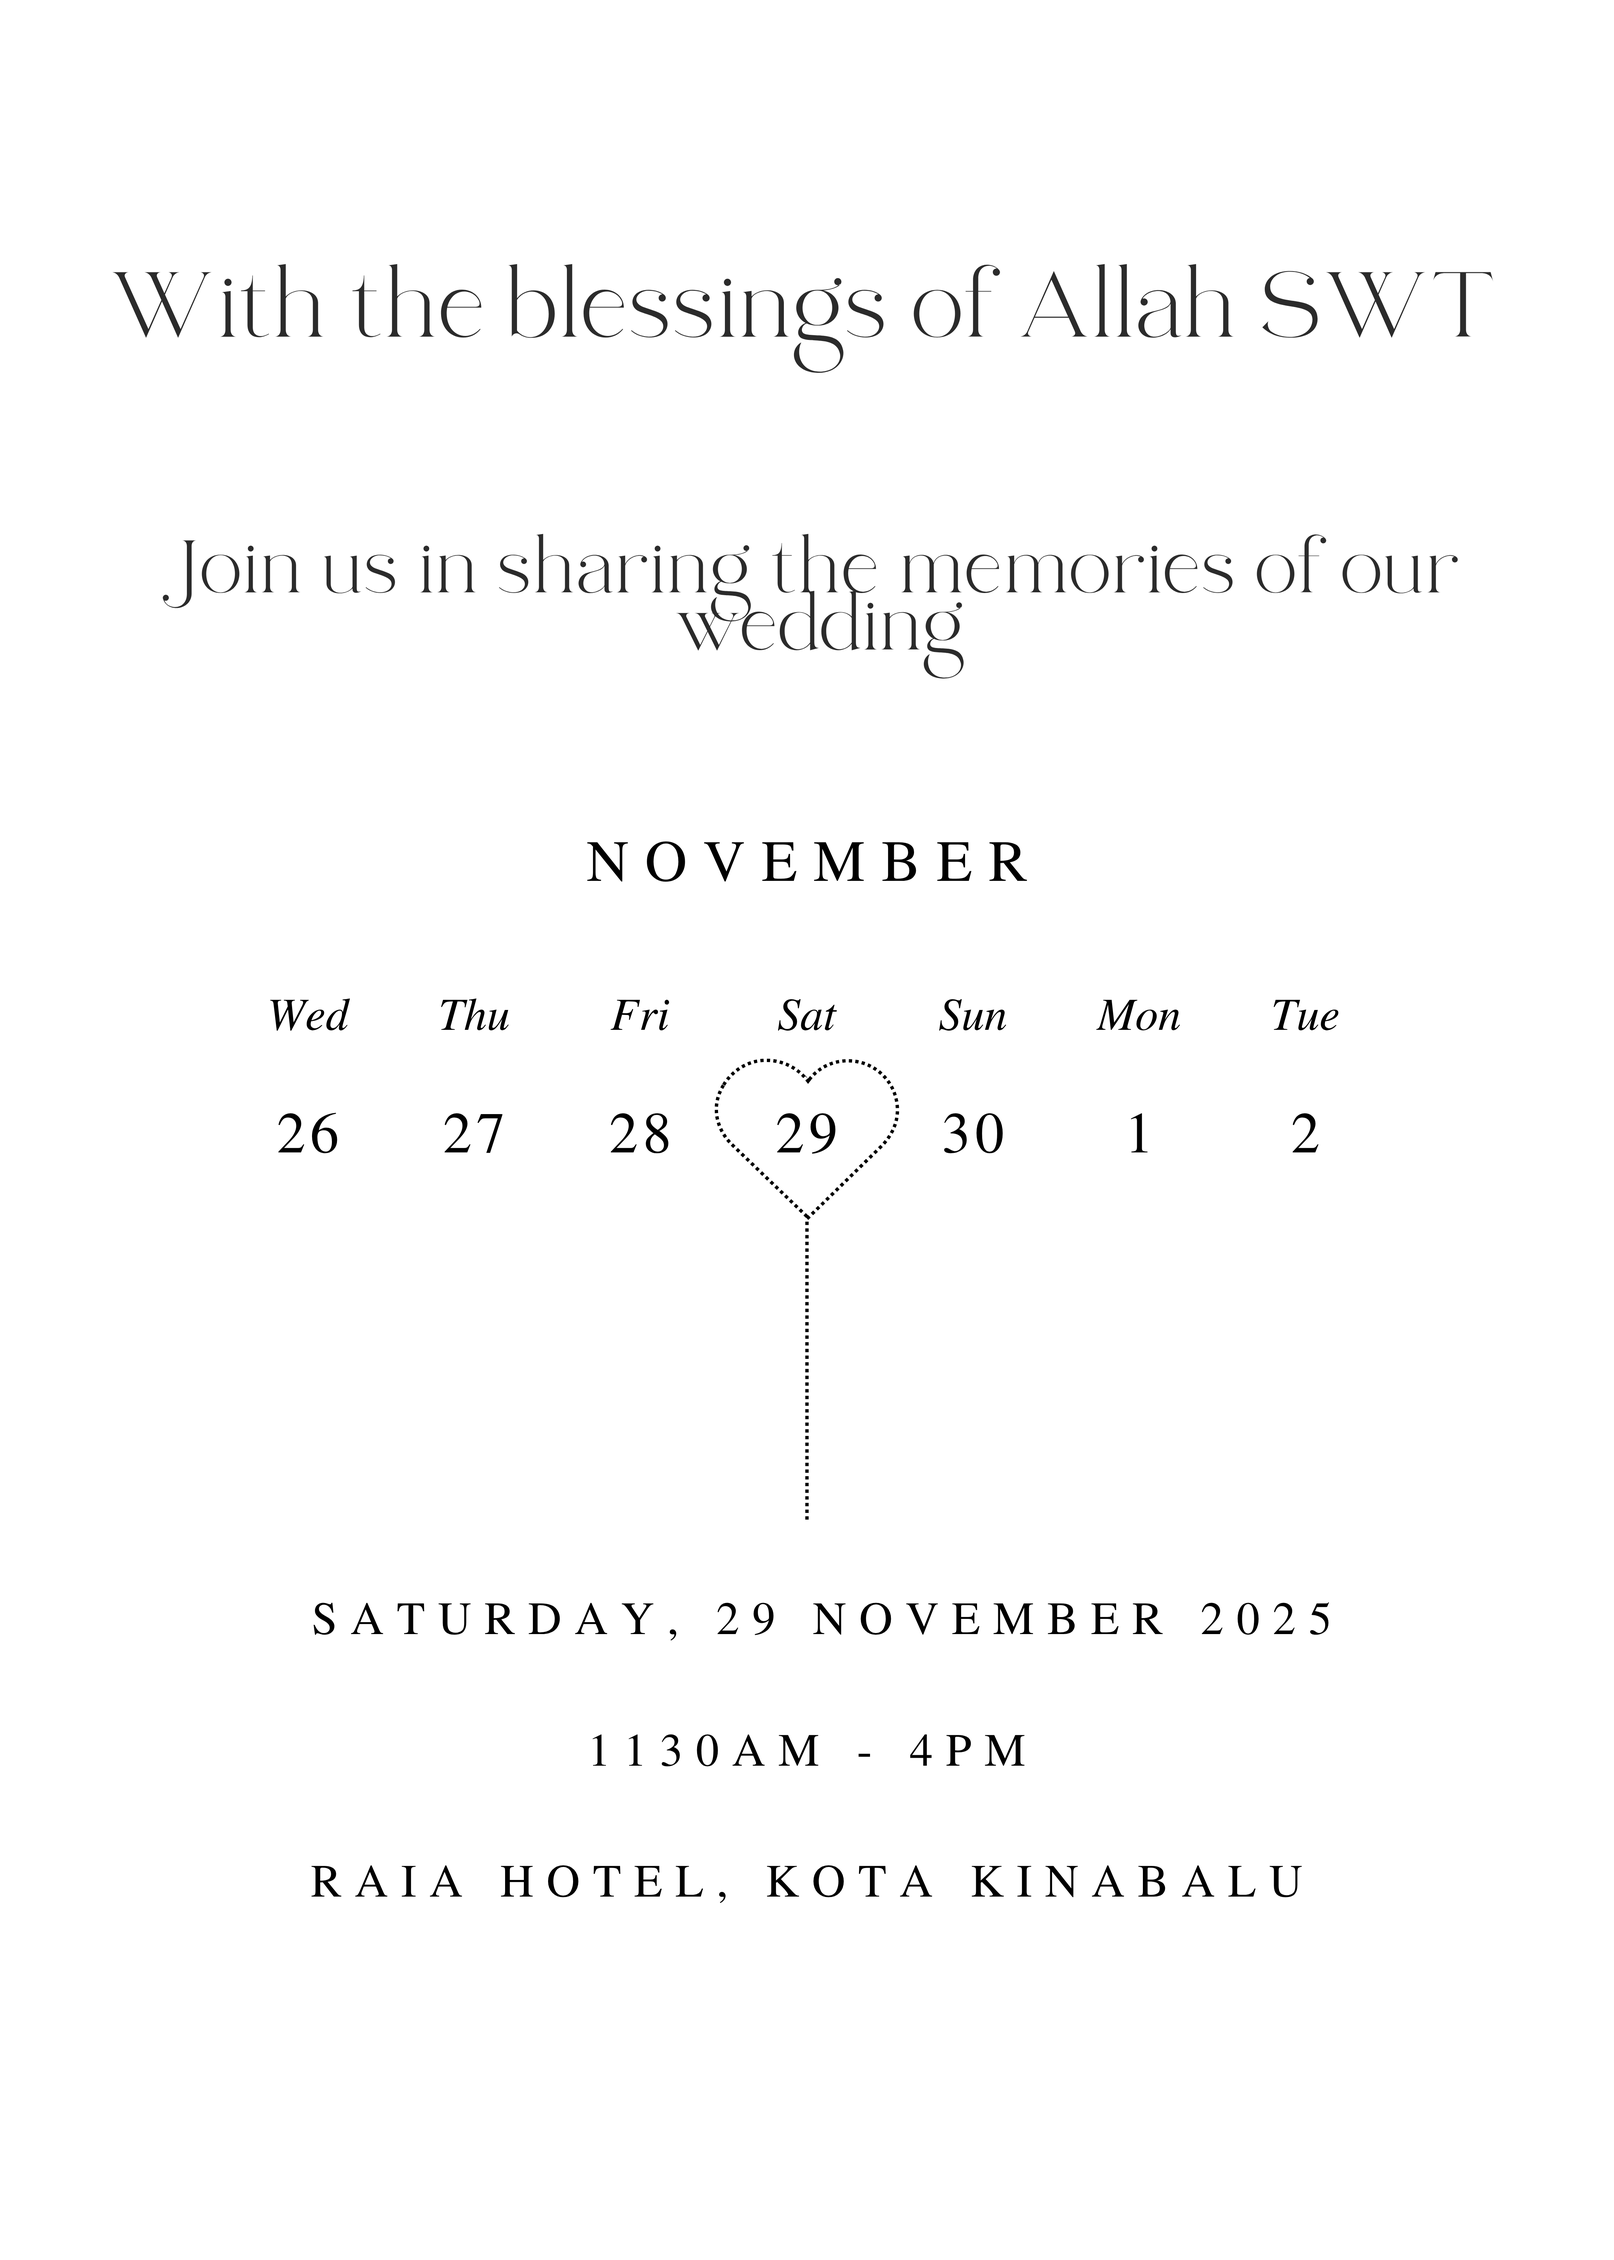
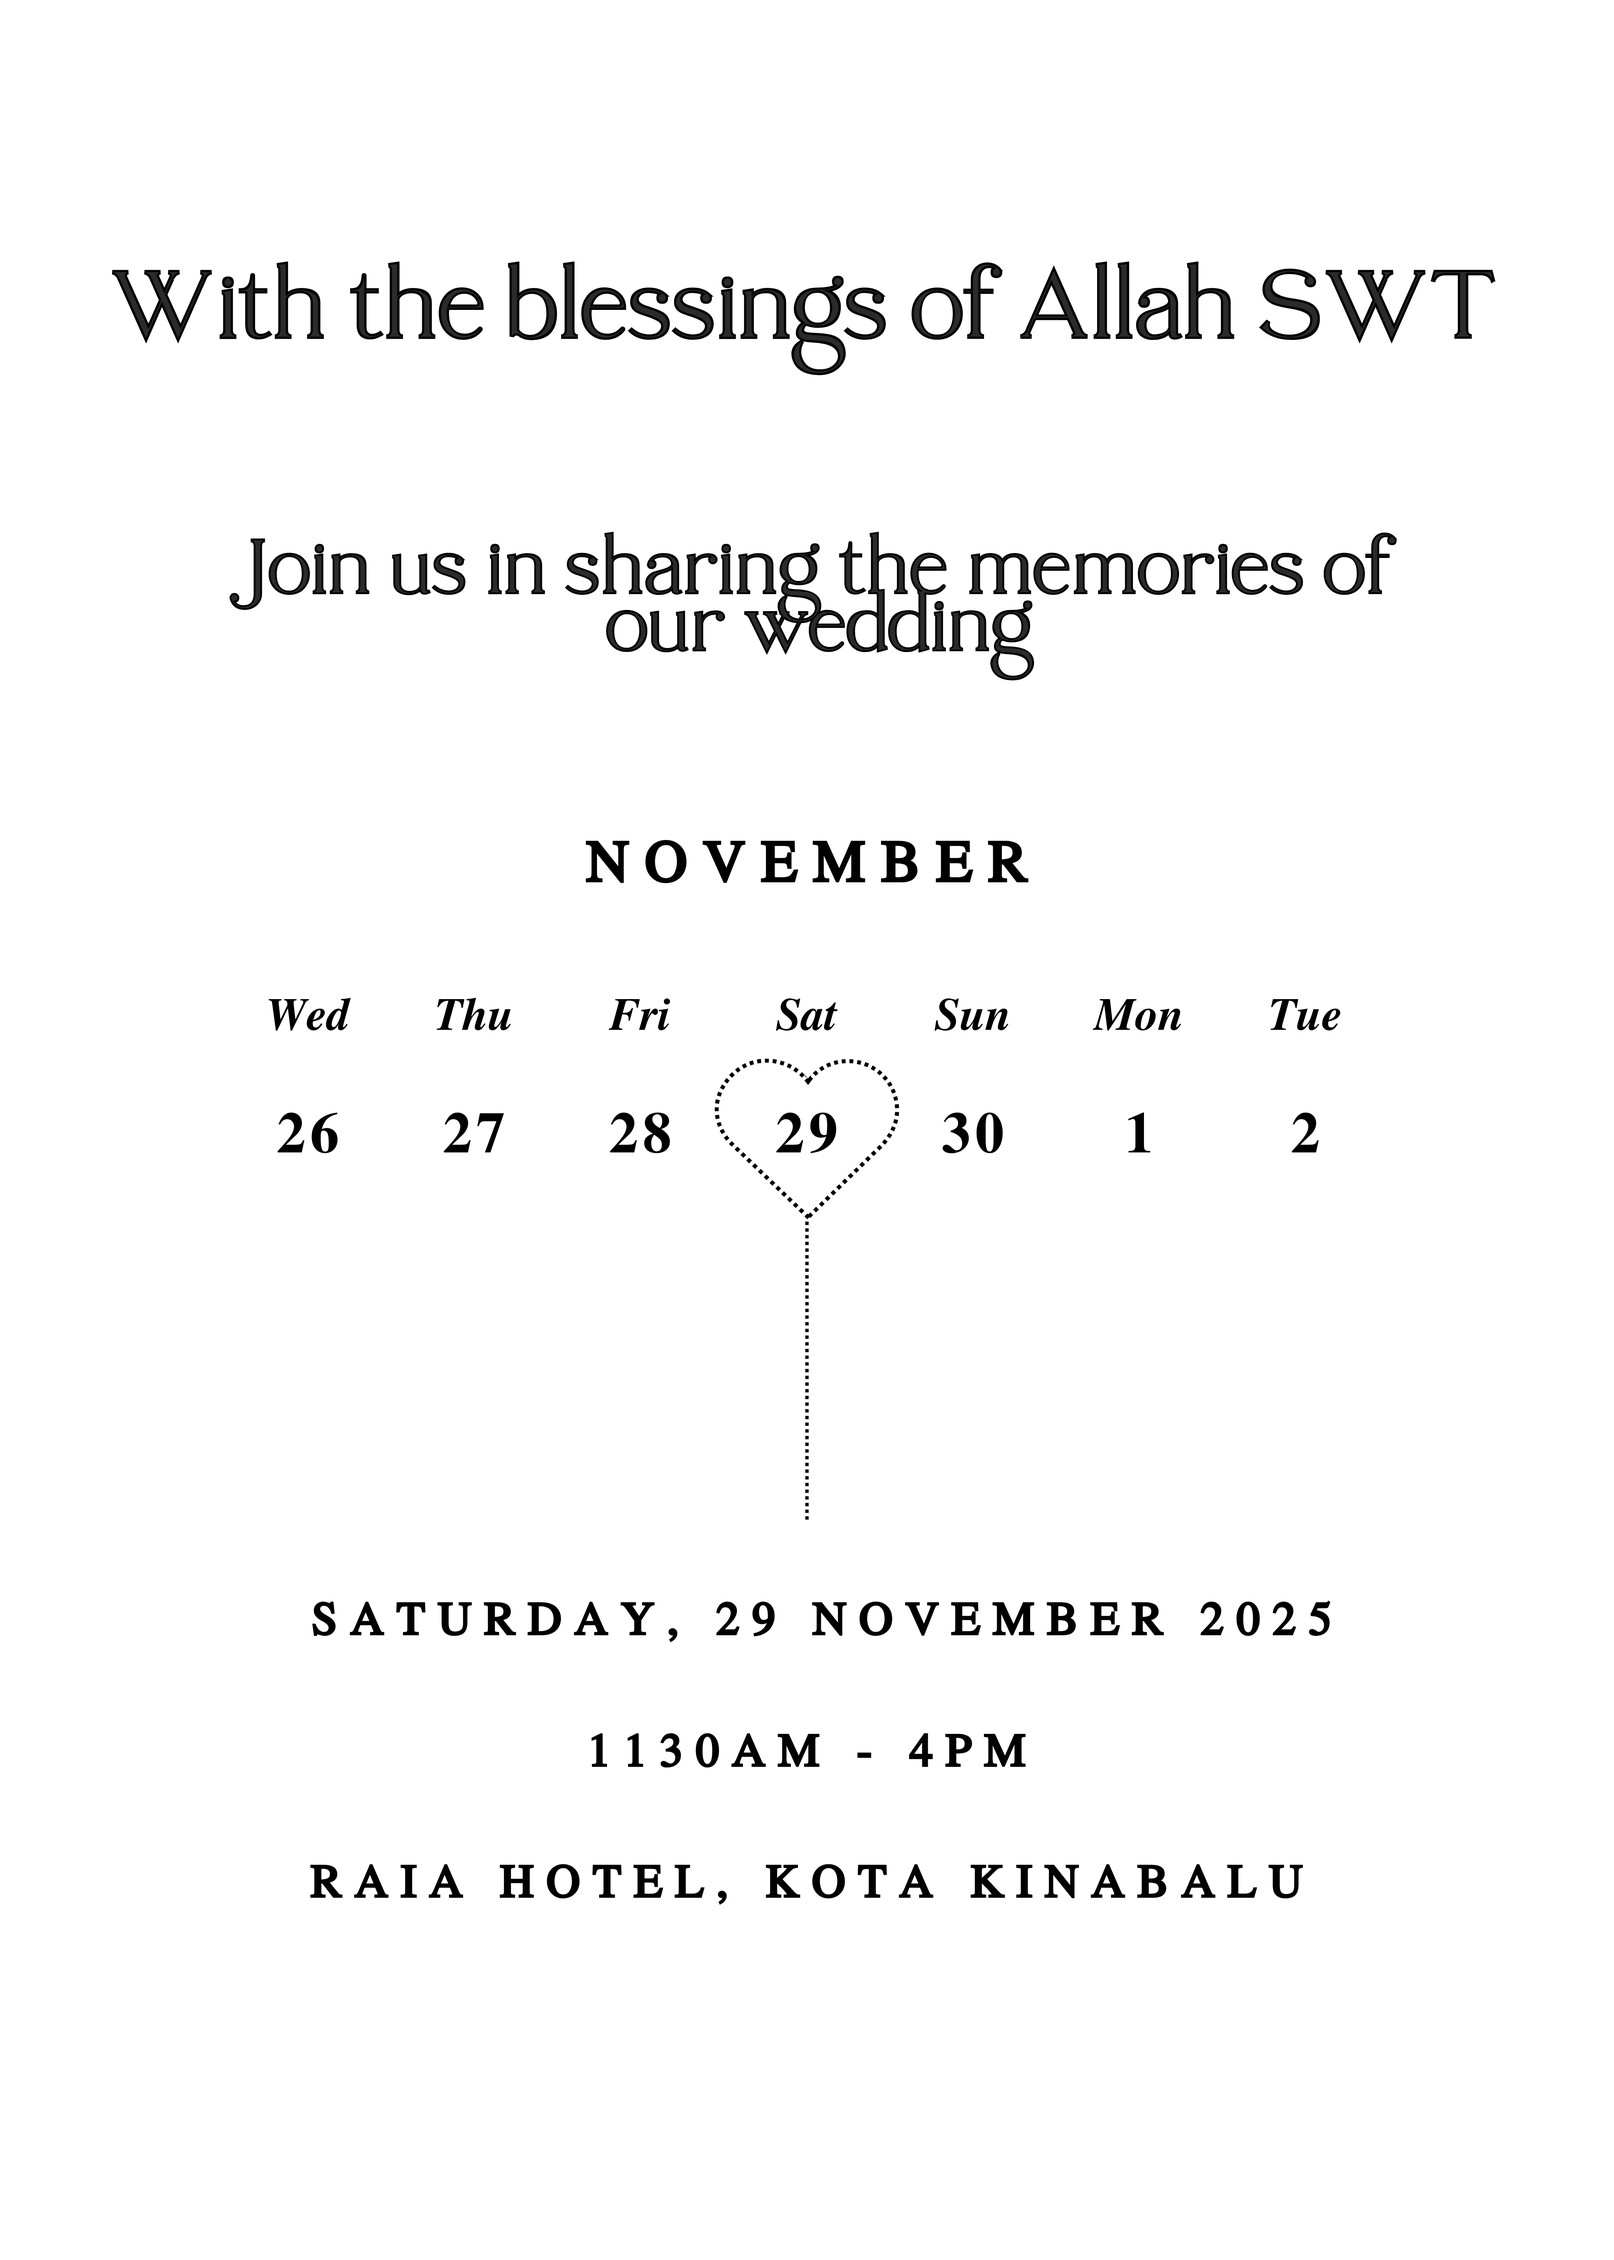
Changed sum stuff

diff --git a/index.html b/index.html
@@ -398,21 +398,18 @@
 		<div class="container">
 		  <div class="row">
 			<div class="col-md-8 col-md-offset-2 text-center fh5co-heading animate-box">
-				<h2 style="font-size: 50px;">With the blessings of Allah</h2>
-			  <p style="color: black;">We are delighted to invite you to our wedding ceremony.</p>
-	  
 			  <!-- 🕒 Wedding Details -->
-			  <div style="text-align: center;">
-				<img src="Date-Time.png" alt="Wedding Event Details" style="max-width: 80%; height: auto;">
-			  </div>
+              <div style="text-align: center;">
+                <img class="details-img" src="details-new.png" alt="Wedding Event Details" style="max-width: 80%; height: auto;">
+              </div>
 		
 			  <!-- 📷 QR Code (Replace src with your actual QR image) -->
-			  <div style="margin: 20px 0;">
-				<img src="RaiaHotel-QR.png" alt="QR Code for Location" style="max-width: 200px; height: auto;">
+              <div style="margin: -50px 0;">
+				<img src="location-qr.png" alt="QR Code for Location" style="max-width: 200px; height: auto;">
 			  </div>
 	  
 			  <!-- 📍 Button to Get Directions -->
-			  <a href="https://www.google.com/maps?q=Dewan+Serbaguna,+Jalan+Lintas,+Kota+Kinabalu" target="_blank" class="btn btn-primary" style="padding: 10px 20px; font-weight: bold; background-color: rgb(56, 53, 53); color: white;">
+              <a href="https://www.google.com/maps?q=Dewan+Serbaguna,+Jalan+Lintas,+Kota+Kinabalu" target="_blank" class="btn btn-primary" style="padding: 10px 20px; font-weight: bold; background-color: rgb(56, 53, 53); color: white; margin-top: 68px;">
 				Get Location
 			  </a>
 			</div>

diff --git a/css/style.css b/css/style.css
@@ -1833,6 +1833,11 @@ body {
   #intro {
     font-size: 60px;
   }
+
+  /* Make details image larger on mobile */
+  img.details-img {
+    max-width: 100% !important;
+  }
   
   /* Mobile section backgrounds - single image, minimal cropping */
   #fh5co-couple,
